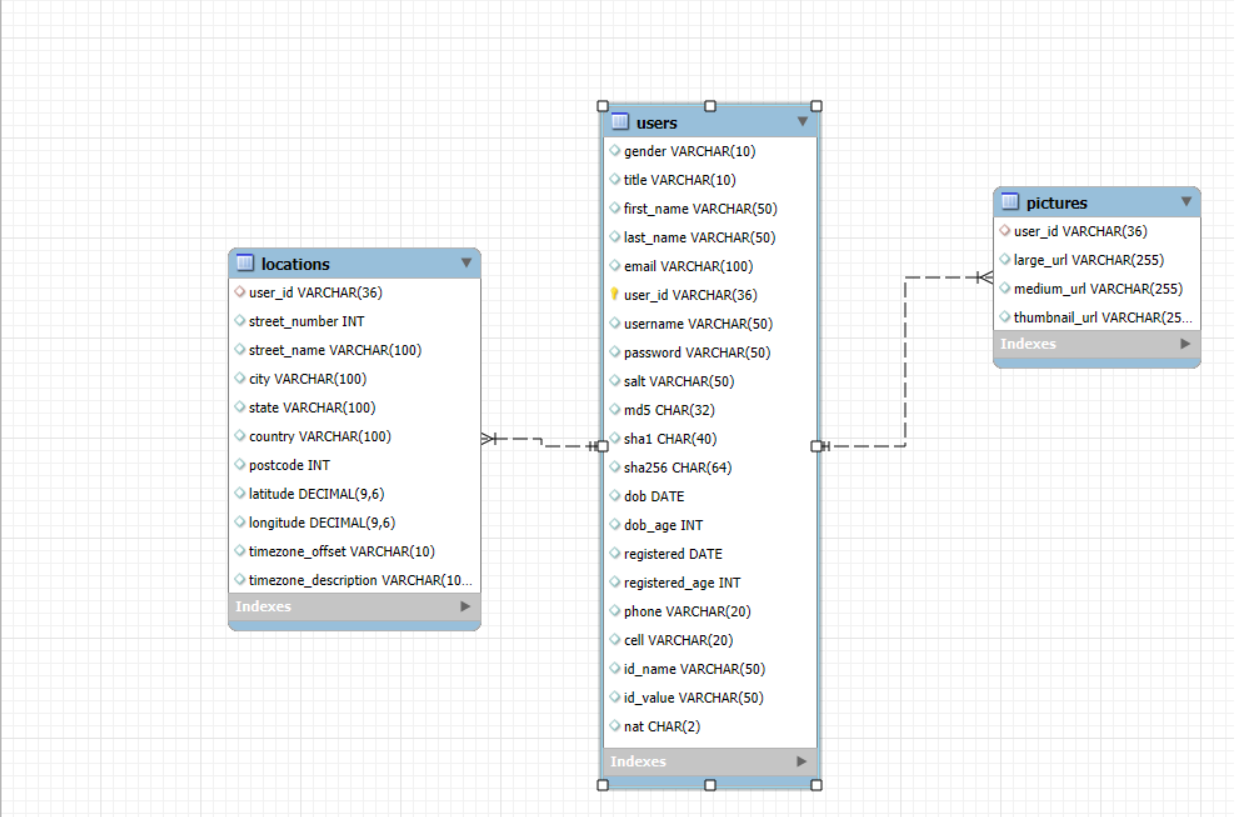
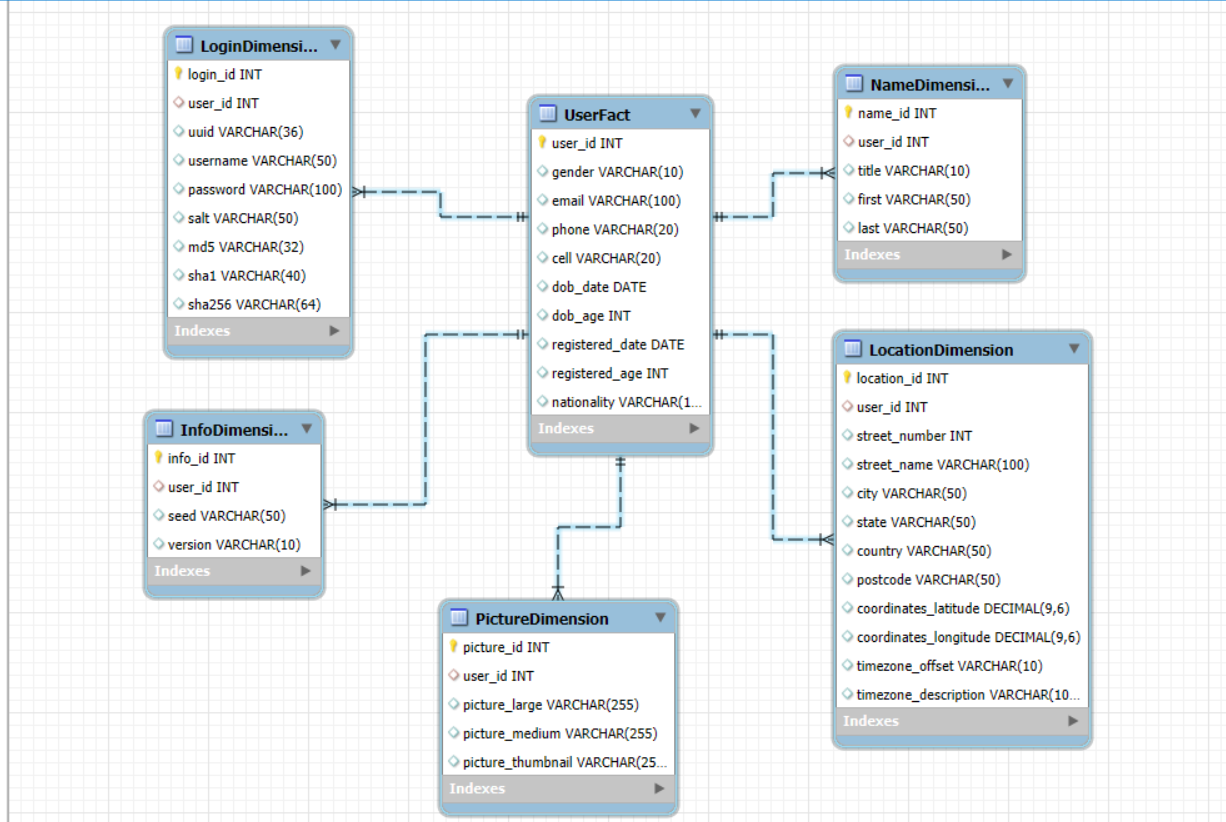
Second Commit

Changed region(s): [[0.093, 0.0306, 0.9608, 1.0], [0.0, 0.0, 0.031, 1.0]]

diff --git a/ETL.py b/ETL.py
@@ -1,3 +1,4 @@
+import random
 import requests
 import pandas as pd
 from sqlalchemy import create_engine, MetaData, Table
@@ -16,59 +17,81 @@ db_engine = create_engine(connection_string)
 
 # Fetch data from the API
 response = requests.get("https://randomuser.me/api/")
-result = response.json()['results'][0]
+data = response.json()
+result = data['results'][0]
+info = data['info']
+
+# Create User ID
+user_id = random.randint(1, 10000)
 
 # Create DataFrames from the fetched data
 user_df = pd.DataFrame([{
+    'user_id': user_id,
     'gender': result['gender'],
-    'title': result['name']['title'],
-    'first_name': result['name']['first'],
-    'last_name': result['name']['last'],
     'email': result['email'],
-    'user_id': result['login']['uuid'],
+    'dob_date': pd.to_datetime(result['dob']['date']).strftime('%Y-%m-%d'),
+    'dob_age': result['dob']['age'],
+    'registered_date': pd.to_datetime(result['registered']['date']).strftime('%Y-%m-%d'),
+    'registered_age': result['registered']['age'],
+    'phone': result['phone'],
+    'cell': result['cell'],
+    'nationality': result['nat'],
+}])
+
+name_df = pd.DataFrame([{
+    'user_id': user_id,
+    'title': result['name']['title'],
+    'first': result['name']['first'],
+    'last': result['name']['last'],
+}])
+
+login_df = pd.DataFrame([{
+    'user_id': user_id,
+    'uuid': result['login']['uuid'],
     'username': result['login']['username'],
     'password': result['login']['password'],
     'salt': result['login']['salt'],
     'md5': result['login']['md5'],
     'sha1': result['login']['sha1'],
     'sha256': result['login']['sha256'],
-    'dob': pd.to_datetime(result['dob']['date']).strftime('%Y-%m-%d %H:%M:%S'),
-    'dob_age': result['dob']['age'],
-    'registered': pd.to_datetime(result['registered']['date']).strftime('%Y-%m-%d %H:%M:%S'),
-    'registered_age': result['registered']['age'],
-    'phone': result['phone'],
-    'cell': result['cell'],
-    'id_name': result['id']['name'],
-    'id_value': result['id']['value'],
-    'nat': result['nat']
 }])
 
+
 location_df = pd.DataFrame([{
+    'user_id': user_id,
     'street_number': result['location']['street']['number'],
     'street_name': result['location']['street']['name'],
     'city': result['location']['city'],
     'state': result['location']['state'],
     'country': result['location']['country'],
     'postcode': str(result['location']['postcode']).replace(' ', ''),
-    'latitude': result['location']['coordinates']['latitude'],
-    'longitude': result['location']['coordinates']['longitude'],
+    'coordinates_latitude': result['location']['coordinates']['latitude'],
+    'coordinates_longitude': result['location']['coordinates']['longitude'],
     'timezone_offset': result['location']['timezone']['offset'],
     'timezone_description': result['location']['timezone']['description'],
-    'user_id': result['login']['uuid']
 }])
 
 pictures_df = pd.DataFrame([{
-    'large_url': result['picture']['large'],
-    'medium_url': result['picture']['medium'],
-    'thumbnail_url': result['picture']['thumbnail'],
-    'user_id': result['login']['uuid']
+    'user_id': user_id,
+    'picture_large': result['picture']['large'],
+    'picture_medium': result['picture']['medium'],
+    'picture_thumbnail': result['picture']['thumbnail'],
+}])
+
+info_df = pd.DataFrame([{
+    'user_id': user_id,
+    'seed': info['seed'],
+    'version': info['version'],
 }])
 
 # Define the tables metadata
 metadata = MetaData(bind=db_engine)
-users_table = Table('users', metadata, autoload=True)
-locations_table = Table('locations', metadata, autoload=True)
-pictures_table = Table('pictures', metadata, autoload=True)
+users_table = Table('UserFact', metadata, autoload=True)
+locations_table = Table('LocationDimension', metadata, autoload=True)
+pictures_table = Table('PictureDimension', metadata, autoload=True)
+login_table = Table('LoginDimension', metadata, autoload=True)
+name_table = Table('NameDimension', metadata, autoload=True)
+info_table = Table('InfoDimension', metadata, autoload=True)
 
 # Insert data into the database
 all_successful = True
@@ -85,6 +108,9 @@ def insert_data(table, data):
 insert_data(users_table, user_df)
 insert_data(locations_table, location_df)
 insert_data(pictures_table, pictures_df)
+insert_data(login_table, login_df)
+insert_data(name_table, name_df)
+insert_data(info_table, info_df)
 
 if all_successful:
     print("One record has been inserted successfully.")

diff --git a/ETL_runner.py b/ETL_runner.py
@@ -5,7 +5,7 @@ import time
 script_path = r'C:\Users\elmal\Downloads\Bosta Assesment\ETL.py'
 
 # Number of times to run the script
-num_iterations = 100 #to add 100 record
+num_iterations = 100 #to add 100 records
 
 # Running the script in a loop
 for i in range(num_iterations):
